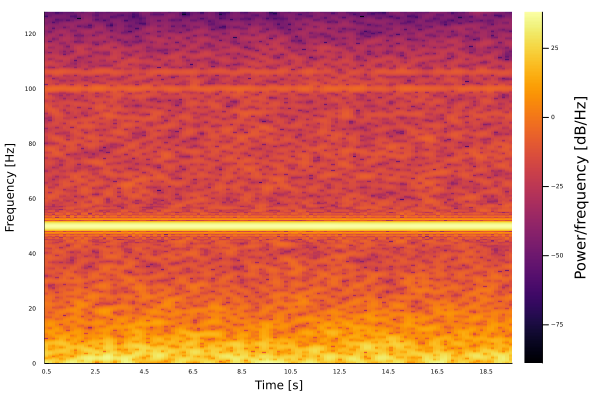
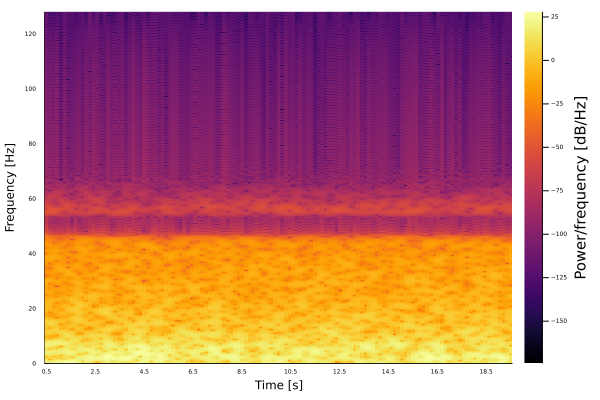
update: tutorial

diff --git a/Tutorial.md b/Tutorial.md
@@ -423,7 +423,7 @@ bar(v)
 
 ### EEG Plots
 
-Plot:
+Plot multi-channel:
 ```julia
 p = eeg_plot(edf)
 eeg_plot_save(p, file_name="images/edf_channels.png")
@@ -431,6 +431,8 @@ eeg_plot_save(p, file_name="images/edf_channels.png")
 
 ![edf_channels](images/edf_channels.png)
 
+
+Plot single-channel:
 ```julia
 p = eeg_plot(edf, channel=1, frq_lim=(0, 20))
 eeg_plot_save(p, file_name="images/edf_channel_1.png")
@@ -447,6 +449,7 @@ p = eeg_plot(e9, head=true)
 eeg_save_plot(p, file_name="/tmp/e9.png")
 ```
 
+Plot averaged signal:
 ```juia
 p = eeg_plot_avg(edf, frq_lim=(0, 20), channel=1:4)
 eeg_plot_save(p, file_name="images/edf_avg.png")
@@ -503,23 +506,6 @@ eeg_plot_save(p, file_name="images/edf_bands.png")
 
 ![edf bands](images/edf_bands.png)
 
-Spectral analysis:
-```julia
-edf_pow, edf_frq = eeg_psd(edf, norm=true)
-plot(edf_frq[10, :], edf_pow[10, :])
-eeg_plot_psd(edf, frq_lim=20.0, channel=1:4)
-eeg_plot_psd(edf, norm=true, average=false, frq_lim=50)
-eeg_plot_psd(edf, norm=true, average=true, frq_lim=20)
-eeg_plot_psd(edf, channel=1:4, average=true)
-f3 = eeg_extract_channel(edf, channel="F3")
-f4 = eeg_extract_channel(edf, channel=4)
-signal_psd(f4, fs=256)
-signal_plot_psd(f3, fs=256)
-signal_plot_psd(f4, fs=256)
-
-eeg_psd!(edf, norm=true)
-```
-
 Plot spectrogram:
 ```julia
 p = eeg_plot_spectrogram(edf, channel=9, norm=true)
@@ -530,21 +516,19 @@ eeg_plot_save(p, file_name="images/edf_spec1.png")
 
 Plot multi-channel spectrogram:
 ```julia
-p = eeg_plot_spectrogram(edf, channel=1:19, len=1024, norm=true)
+p = eeg_plot_spectrogram(edf, channel=1:19, len=1024, norm=true, frq_lim=(0, 50))
 eeg_plot_save(p, file_name="images/edf_spec2.png")
 ```
 
 ![edf_topo :amp](images/edf_spec2.png)
 
+Plot PSD:
 ```julia
-eeg_plot_spectrogram(e10, channel=9, norm=true, len=110*eeg_sr(edf))
-eeg_plot_spectrogram(e9, channel=9, norm=true, ylim=80, len=75*eeg_sr(edf))
-eeg_plot_spectrogram(e9, channel=9, norm=true, ylim=40, len=80*eeg_sr(edf), offset=18*256)
-eeg_plot_spectrogram(e9, channel=9, norm=true, ylim=40)
-eeg_plot_psd(e10)
-eeg_plot_psd(e10, len=120*eeg_sr(edf))
-eeg_plot_psd(edf, len=240*eeg_sr(edf), channel=4, frq_lim=20)
+p = eeg_plot_psd(edf, average=true, norm=true)
+eeg_plot_save(p, file_name="images/edf_psd.png")
 ```
+
+![edf_topo :amp](images/edf_psd.png)
 
 Topographical plots:
 ```julia
@@ -554,10 +538,25 @@ eeg_plot_save(p, file_name="images/edf_amp.png")
 
 ![edf_topo :amp](images/edf_amp.png)
 
+Plot ICA components:
 ```julia
-eeg_plot_topo(edf, offset=2560, c=:ica, c_idx=1:8)
+p = eeg_plot_topo(edf, offset=2560, c=:ica, c_idx=1:8)
+eeg_plot_save(p, file_name="images/edf_ica_1_8.png")
+```
+
+![edf_topo :ica](images/edf_ica_1_8.png)
+
+Plot alpha band power:
+```julia
+p = eeg_plot_topo(edf, offset=2560, len=2560, c=:power, c_idx=eeg_band(edf, band=:alpha))
+eeg_plot_save(p, file_name="images/edf_alpha_topo.png")
+```
+
+![edf_topo :power](images/edf_alpha_topo.png)
+
+Plot PCA components:
+```julia
 eeg_plot_topo(edf, offset=2560, len=2560, c=:pca)
-eeg_plot_topo(edf, offset=2560, len=2560, c=:power, c_idx=eeg_band(edf, band=:alpha))
 ```
 
 Plot covariance matrix:
